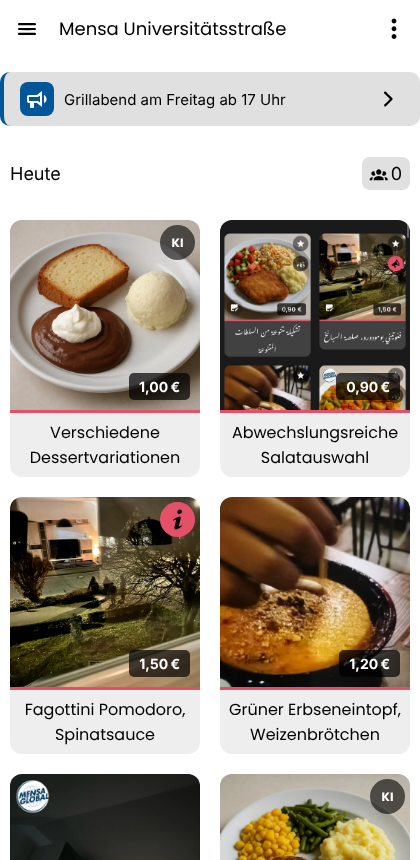
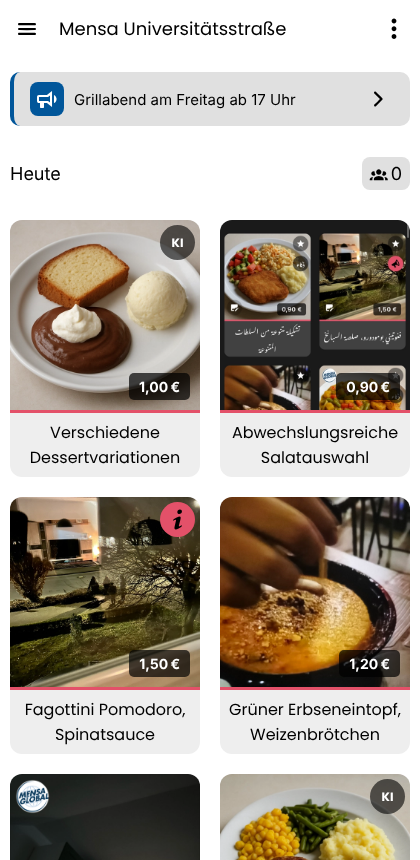
Feature wishes tile with accent, both food offers tiles with the side spacing of the food cards
Claude-Session: https://claude.ai/code/session_01Q5EVJo4q67Uq6UWj7ePswY

Changed region(s): [[0.0, 0.0605, 0.7119, 0.1512], [0.9595, 0.0605, 1.0, 0.1512], [0.8976, 0.0907, 0.9286, 0.1209]]

diff --git a/apps/frontend/app/components/NewsFoodoffersHint/index.tsx b/apps/frontend/app/components/NewsFoodoffersHint/index.tsx
@@ -1,5 +1,5 @@
 import React, { useCallback, useMemo } from 'react';
-import { StyleSheet, View } from 'react-native';
+import { StyleSheet, useWindowDimensions, View } from 'react-native';
 import { MaterialCommunityIcons, Octicons } from '@expo/vector-icons';
 import { shallowEqual } from 'react-redux';
 import { DatabaseTypes, doesNewsMatchCanteen, getNewsFoodoffersLocation, isNewsShownAt, NewsFoodoffersPosition } from 'repo-depkit-common';
@@ -11,6 +11,7 @@ import { getImageUrl } from '@/constants/HelperFunctions';
 import { getTitleFromTranslation } from '@/helper/resourceHelper';
 import { useTheme } from '@/hooks/useTheme';
 import { useAppSelector } from '@/redux/hooks';
+import CardDimensionHelper from '@/helper/CardDimensionHelper';
 
 type FoodoffersNews = DatabaseTypes.News;
 
@@ -26,12 +27,14 @@ type NewsFoodoffersHintProps = {
  * without canteens is meant for all of them). A tap opens the full news. The cards cannot be hidden:
  * they stay as long as the news is meant for the food offers (no "x", and the opened news has no
  * "do not show again" button, that one is only for popups and their `isOpen` flag). A `SettingsList`
- * row like the feature wishes tile, with the primary colour as accent on the left.
+ * row like the feature wishes tile, with the primary colour as accent on the left and the side spacing
+ * of the food cards.
  */
 const NewsFoodoffersHint: React.FC<NewsFoodoffersHintProps> = ({ canteenId, position }) => {
 	const { theme } = useTheme();
 	const { show: showModal, close: closeModal } = useMyScrollViewModal();
 	const { primaryColor, language } = useAppSelector(state => state.settings);
+	const { width: screenWidth } = useWindowDimensions();
 	const popupEvents = useAppSelector(state => state.food.popupEvents, shallowEqual) as FoodoffersNews[];
 
 	const visibleEvents = useMemo(() => (popupEvents ?? []).filter(event => isNewsShownAt(event, getNewsFoodoffersLocation(position)) && doesNewsMatchCanteen(event, canteenId)), [popupEvents, canteenId, position]);
@@ -50,7 +53,7 @@ const NewsFoodoffersHint: React.FC<NewsFoodoffersHintProps> = ({ canteenId, posi
 	}
 
 	return (
-		<View style={styles.container}>
+		<View style={[styles.container, { paddingHorizontal: CardDimensionHelper.getItemGap(screenWidth) }]}>
 			{visibleEvents.map(event => {
 				const title = (event.translations ? getTitleFromTranslation(event.translations, language) : '') || event.alias || '';
 				const imageUrl = event.image_remote_url || (event.image ? getImageUrl(String(typeof event.image === 'object' ? event.image.id : event.image)) : null);

diff --git a/apps/frontend/app/components/FeatureWishesTile/index.tsx b/apps/frontend/app/components/FeatureWishesTile/index.tsx
@@ -1,5 +1,5 @@
 import React from 'react';
-import { StyleSheet, View } from 'react-native';
+import { StyleSheet, useWindowDimensions, View } from 'react-native';
 import { MaterialCommunityIcons, Octicons } from '@expo/vector-icons';
 import { FeatureWishHelper } from 'repo-depkit-common';
 import SettingsList from '@/components/SettingsList';
@@ -8,17 +8,20 @@ import { useFeatureWishesMode } from '@/hooks/useFeatureWishesMode';
 import { useTheme } from '@/hooks/useTheme';
 import { useLanguage } from '@/hooks/useLanguage';
 import { useAppSelector } from '@/redux/hooks';
+import CardDimensionHelper from '@/helper/CardDimensionHelper';
 import { TranslationKeys } from '@/locales/keys';
 
 /**
  * "Which feature are you missing?" between the first and the second day of the food offers. Hidden
  * when the app settings do not allow submitting wishes, and for 30 days after it was hidden with the
- * former "Hide" button.
+ * former "Hide" button. Same row as the news cards of the food offers: the primary colour as accent
+ * on the left and the side spacing of the food cards.
  */
 const FeatureWishesTile: React.FC = () => {
 	const { theme } = useTheme();
 	const { translate } = useLanguage();
 	const { primaryColor } = useAppSelector(state => state.settings);
+	const { width: screenWidth } = useWindowDimensions();
 	const mode = useFeatureWishesMode();
 	const tileHiddenAt = useAppSelector(state => state.settings.featureWishesLocal?.tileHiddenAt ?? null);
 	const { openFeatureWishesModal } = useFeatureWishesModal();
@@ -28,15 +31,8 @@ const FeatureWishesTile: React.FC = () => {
 	}
 
 	return (
-		<View style={styles.container}>
-			<SettingsList
-				iconBgColor={primaryColor}
-				leftIcon={<MaterialCommunityIcons name="lightbulb-on-outline" size={24} color={theme.screen.icon} />}
-				label={translate(TranslationKeys.feature_wishes_tile_title)}
-				rightIcon={<Octicons name="chevron-right" size={24} color={theme.screen.icon} />}
-				handleFunction={openFeatureWishesModal}
-				groupPosition="single"
-			/>
+		<View style={[styles.container, { paddingHorizontal: CardDimensionHelper.getItemGap(screenWidth) }]}>
+			<SettingsList iconBgColor={primaryColor} accentColor={primaryColor} leftIcon={<MaterialCommunityIcons name="lightbulb-on-outline" size={24} color={theme.screen.icon} />} label={translate(TranslationKeys.feature_wishes_tile_title)} rightIcon={<Octicons name="chevron-right" size={24} color={theme.screen.icon} />} handleFunction={openFeatureWishesModal} groupPosition="single" />
 		</View>
 	);
 };

diff --git a/apps/frontend/app/config.ts b/apps/frontend/app/config.ts
@@ -301,7 +301,8 @@ export function getVersionPatch() {
         // 179: popup_events collection removed, popups only come from news
         // 180: food offers news cards cannot be hidden (no x, no "do not show again"), only popups can
         // 181: news cards in the food offers are a SettingsList row with accent colour
-        return 181;
+        // 182: feature wishes tile with accent, both food offers tiles with the side spacing of the food cards
+        return 182;
 }
 
 export function getVersionInternalForAppsettingsScreen() {
